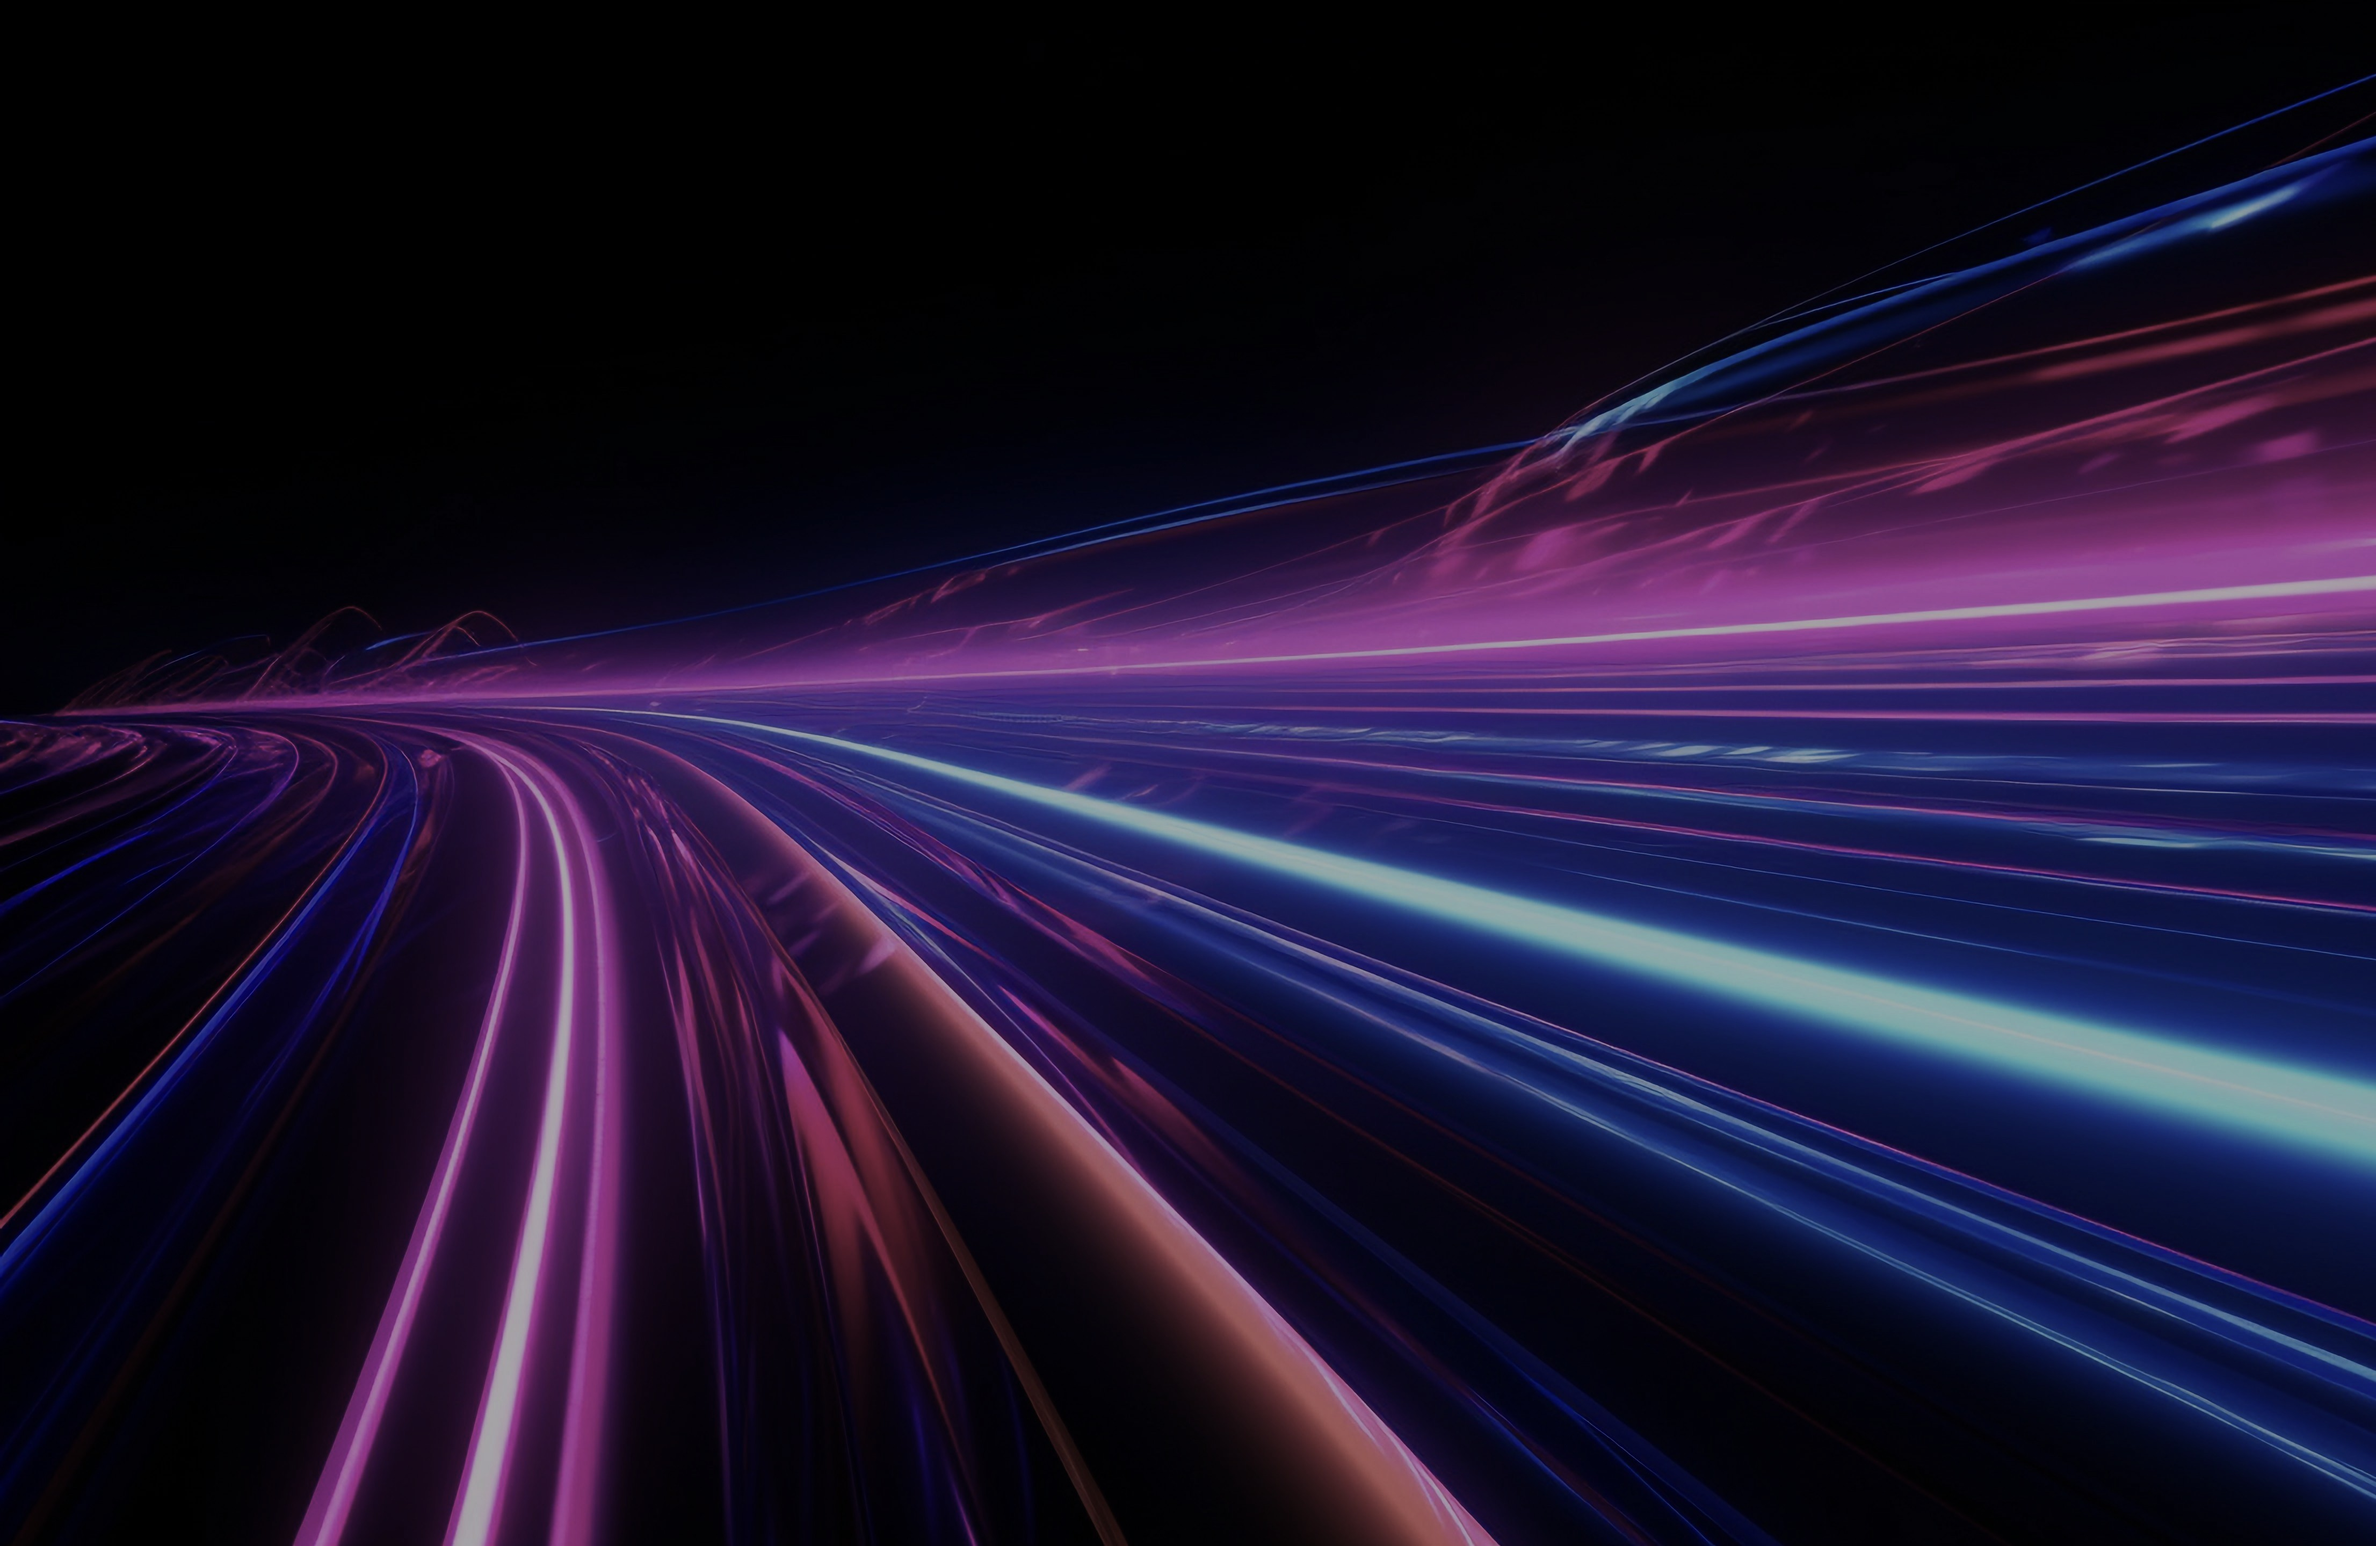
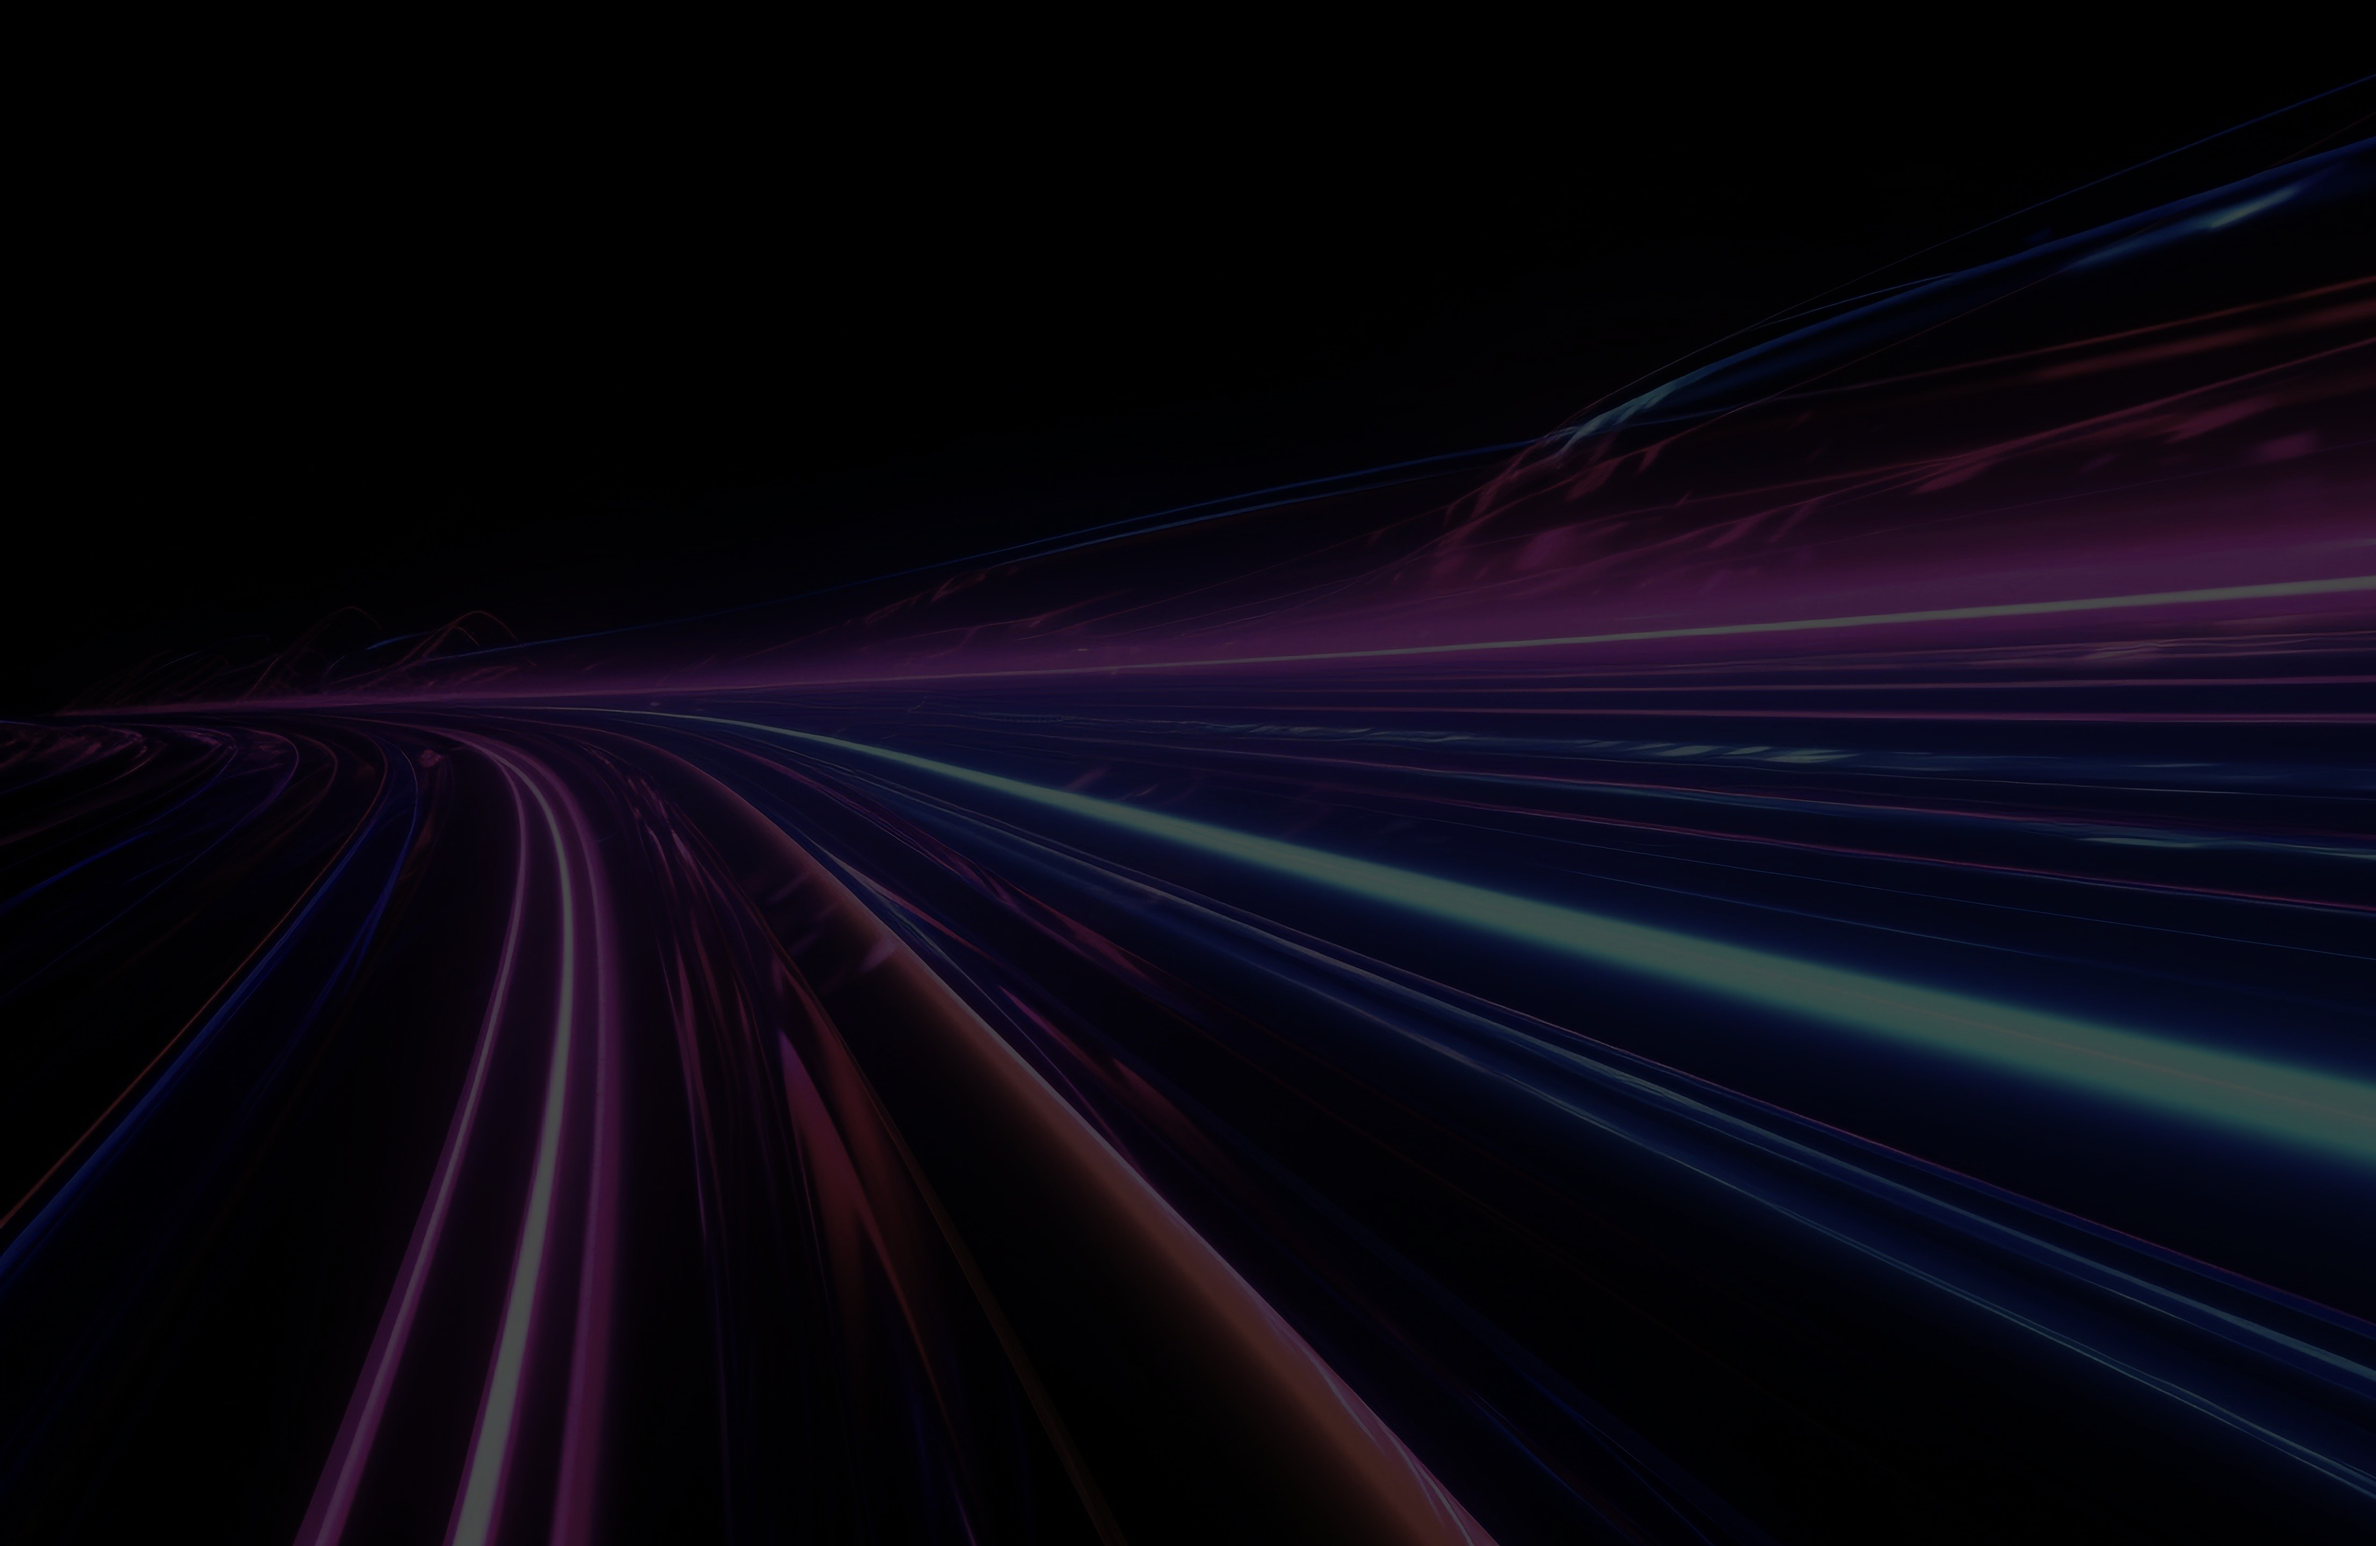
Retoques CSS

diff --git a/src/pages/Orders/Orders.jsx b/src/pages/Orders/Orders.jsx
@@ -10,58 +10,60 @@ function Orders() {
   const { orders, loading } = useOrders(id);
 
   return (
-    <div>
-      <Header />
-      <div className="pedidos-page-wrapper">
-        <div className="pedidos-page-container">
-          <h2 className="pedidos-titulo">Mis pedidos</h2>
-          
-          {loading ? (
-            <Loading />
-          ) : orders.length === 0 ? (
-            <p className="pedidos-vacio">No tienes pedidos todavía</p>
-          ) : (
-            <div className="pedidos-lista">
-              {orders.map((pedido) => (
-              <div key={pedido.id} className="pedido-card">
-                <div className="pedido-header">
-                  <span className="pedido-id">Pedido #{pedido.id}</span>
-                  <span className="pedido-fecha">
-                    {new Date(pedido.fecha).toLocaleDateString('es-ES', {
-                      day: 'numeric',
-                      month: 'long',
-                      year: 'numeric'
-                    })}
-                  </span>
-                  <span className={`pedido-estado pedido-estado--${pedido.estado}`}>
-                    {pedido.estado}
-                  </span>
-                </div>
-                
-                <div className="pedido-productos">
-                  {pedido.productos?.map((producto, i) => (
-                    <div key={i} className="pedido-producto">
-                      <div className="pedido-producto-info">
-                        <span className="pedido-producto-nombre">{producto.nombre}</span>
-                        <span className="pedido-producto-cantidad">Cantidad: {producto.cantidad}</span>
+    <>
+      <div className="background-orders">
+        <Header />
+        <div className="pedidos-page-wrapper">
+          <div className="pedidos-page-container">
+            <h2 className="pedidos-titulo">Mis pedidos</h2>
+            
+            {loading ? (
+              <Loading />
+            ) : orders.length === 0 ? (
+              <p className="pedidos-vacio">No tienes pedidos todavía</p>
+            ) : (
+              <div className="pedidos-lista">
+                {orders.map((pedido) => (
+                <div key={pedido.id} className="pedido-card">
+                  <div className="pedido-header">
+                    <span className="pedido-id">Pedido #{pedido.id}</span>
+                    <span className="pedido-fecha">
+                      {new Date(pedido.fecha).toLocaleDateString('es-ES', {
+                        day: 'numeric',
+                        month: 'long',
+                        year: 'numeric'
+                      })}
+                    </span>
+                    <span className={`pedido-estado pedido-estado--${pedido.estado}`}>
+                      {pedido.estado}
+                    </span>
+                  </div>
+                  
+                  <div className="pedido-productos">
+                    {pedido.productos?.map((producto, i) => (
+                      <div key={i} className="pedido-producto">
+                        <div className="pedido-producto-info">
+                          <span className="pedido-producto-nombre">{producto.nombre}</span>
+                          <span className="pedido-producto-cantidad">Cantidad: {producto.cantidad}</span>
+                        </div>
+                        <span className="pedido-producto-precio">{producto.precio} €</span>
                       </div>
-                      <span className="pedido-producto-precio">{producto.precio} €</span>
-                    </div>
-                  ))}
+                    ))}
+                  </div>
+                  
+                  <div className="pedido-footer">
+                    <span className="pedido-total-label">Total:</span>
+                    <span className="pedido-total-valor">{pedido.total} €</span>
+                  </div>
                 </div>
-                
-                <div className="pedido-footer">
-                  <span className="pedido-total-label">Total:</span>
-                  <span className="pedido-total-valor">{pedido.total} €</span>
-                </div>
-              </div>
-            ))}
+              ))}
+            </div>
+          )}
           </div>
-        )}
         </div>
       </div>
       <Footer />
-    </div>
+    </>
   );
 }
 

diff --git a/src/pages/Profile/Profile.css b/src/pages/Profile/Profile.css
@@ -14,11 +14,10 @@ body {
 
 .perfil-container {
   max-width: 1000px;
-  margin-top: 40px;
+  margin: 40px auto 0;
   padding: 0 20px;
   display: flex;
   gap: 30px;
-  align-items: flex-start;
 }
 
 .perfil-tabs {
@@ -61,10 +60,12 @@ body {
 }
 
 .perfil-seccion {
-  background: #8a63b4;
+  background: #9c70ccaf;
   border-radius: 12px;
   padding: 30px;
-  box-shadow: 0 4px 12px rgba(0, 0, 0, 0.1);
+  box-shadow: 0 6px 18px rgba(60, 60, 226, 0.4);
+  width: 100%; 
+  box-sizing: border-box; 
 }
 
 .perfil-seccion h2 {
@@ -409,45 +410,129 @@ body {
 @media (max-width: 768px) {
   .perfil-container {
     flex-direction: column;
+    margin-top: 20px; /* Reducido en móvil */
+    padding: 0 16px; /* Reducido padding lateral */
   }
 
   .perfil-tabs {
     flex-direction: row;
     position: static;
     width: 100%;
+    overflow-x: auto; /* Por si los tabs no caben */
+    flex-wrap: wrap; /* Permite que se envuelvan */
   }
 
-  .modal-contenido {
-    padding: 24px;
+  .perfil-tab { 
+    padding: 10px 16px; 
+    font-size: 14px;
+    flex: 1; /* Distribuye equitativamente */
+    min-width: 120px; /* Ancho mínimo */
+    text-align: center;
   }
-  
+
   .perfil-seccion {
     padding: 20px;
+    border-radius: 8px; /* Bordes menos redondeados en móvil */
+  }
+  
+  .perfil-seccion h2 {
+    font-size: 18px; /* Título más pequeño */
   }
   
   .perfil-seccion-header {
     flex-direction: column;
     align-items: flex-start;
-    gap: 16px;
+    gap: 12px;
   }
   
   .perfil-btn-editar {
     width: 100%;
   }
   
-  .perfil-tab { 
-    padding: 10px 16px; 
-    font-size: 14px; 
+  .perfil-detalles {
+    gap: 16px; /* Reducido gap */
+  }
+  
+  .perfil-detalle {
+    padding-bottom: 16px;
+  }
+  
+  .perfil-label {
+    font-size: 13px;
+  }
+  
+  .perfil-valor {
+    font-size: 15px;
+    word-break: break-word; /* Evita overflow de textos largos */
   }
   
   .perfil-btn { 
     width: 100%; 
     text-align: center; 
   }
+  
+  .perfil-btn-peligro {
+    width: 100%;
+  }
+  
+  /* Modal en móvil */
+  .modal-contenido {
+    padding: 20px;
+    margin: 10px; /* Añade margen en los bordes */
+  }
+  
+  .modal-header h2 {
+    font-size: 20px;
+  }
 }
 
-@media (max-width: 600px) {
+/* Pantallas muy pequeñas */
+@media (max-width: 480px) {
   .perfil-container {
-    padding: 0 16px;
+    padding: 0 12px;
+    gap: 20px;
+  }
+  
+  .perfil-seccion {
+    padding: 16px;
+  }
+  
+  .perfil-seccion h2 {
+    font-size: 16px;
+    margin-bottom: 16px;
+  }
+  
+  .perfil-detalles {
+    gap: 12px;
+  }
+  
+  .perfil-campo input,
+  .perfil-campo textarea {
+    padding: 10px 14px;
+    font-size: 14px;
+  }
+  
+  .perfil-btn,
+  .perfil-btn-editar,
+  .perfil-btn-peligro {
+    padding: 10px 20px;
+    font-size: 14px;
+  }
+  
+  .perfil-tab {
+    padding: 8px 12px;
+    font-size: 13px;
+    min-width: 100px;
+  }
+  
+  .ajuste-item {
+    padding: 12px;
+    flex-direction: column;
+    align-items: flex-start;
+    gap: 12px;
+  }
+  
+  .ajuste-switch {
+    align-self: flex-end;
   }
 }

diff --git a/src/pages/Orders/Orders.css b/src/pages/Orders/Orders.css
@@ -1,3 +1,17 @@
+body {
+  font-family: 'Segoe UI', Tahoma, Geneva, Verdana, sans-serif;
+}
+
+.background-orders {
+  background-image: url("../../assets/images/perfilBackground.jpeg");
+  background-size: cover;
+  background-position: center;
+  background-repeat: no-repeat;
+  border-radius: 20px;
+  min-height: 100vh;
+  margin-bottom: 12px;
+}
+
 .pedidos-page-wrapper {
   min-height: calc(100vh - 200px);
   max-width: 1000px;
@@ -7,10 +21,12 @@
 
 .pedidos-page-container {
   min-height: 500px;
-  background: #8a63b4;
+  background: #9c70ccaf;
   border-radius: 12px;
   padding: 30px;
-  box-shadow: 0 4px 12px rgba(0, 0, 0, 0.1);
+  box-shadow: 0 6px 18px rgba(60, 60, 226, 0.4);
+  width: 100%; 
+  box-sizing: border-box; 
 }
 
 .pedidos-titulo {

diff --git a/src/pages/LoginRegister/Login.jsx b/src/pages/LoginRegister/Login.jsx
@@ -32,7 +32,7 @@ function Login() {
   };
 
   const goToRegister = () => {
-    navigate('/register');
+    navigate('/registro');
   };
 
   const handleSubmit = async (e) => {
@@ -84,7 +84,7 @@ function Login() {
       <div className="auth-container-log">
         <div className="auth-card-log">
           <div className="auth-header-log">
-            <h1>Inicia Sesión</h1>
+            <h1>Inicia sesión</h1>
             <p>Pon tu usuario y contraseña para entrar</p>
           </div>
 

diff --git a/src/pages/Wishlist/Wishlist.css b/src/pages/Wishlist/Wishlist.css
@@ -14,7 +14,7 @@ body {
 
 .wishlist-container {
   max-width: 1200px;
-  margin: 40px auto;
+  margin: 40px auto 12px auto;
   padding: 24px;
   padding-left: 96px;
   position: relative;
